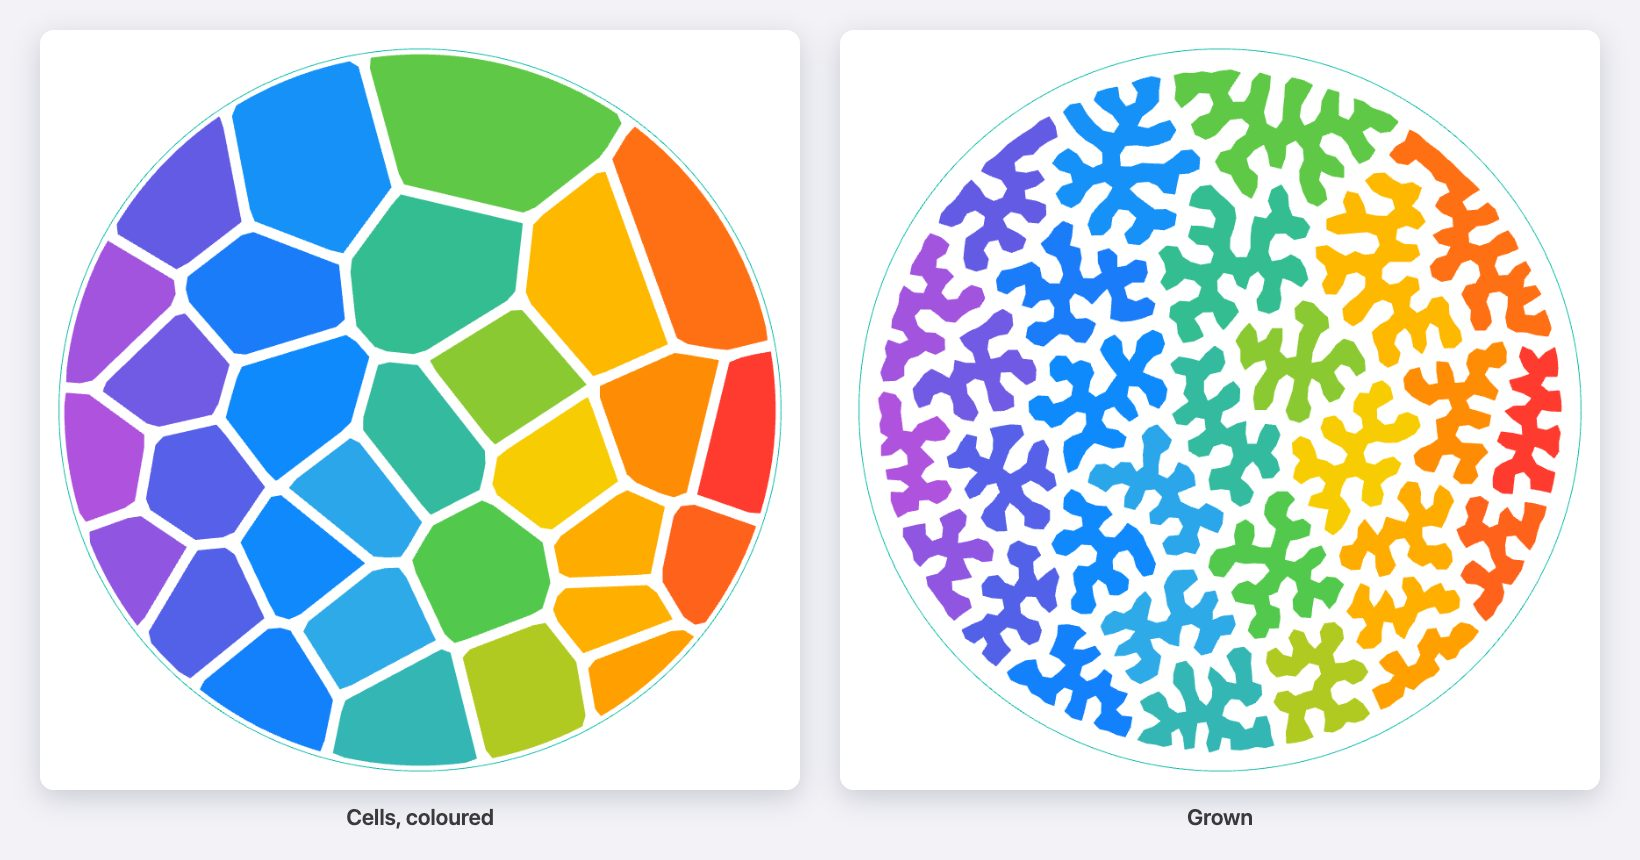
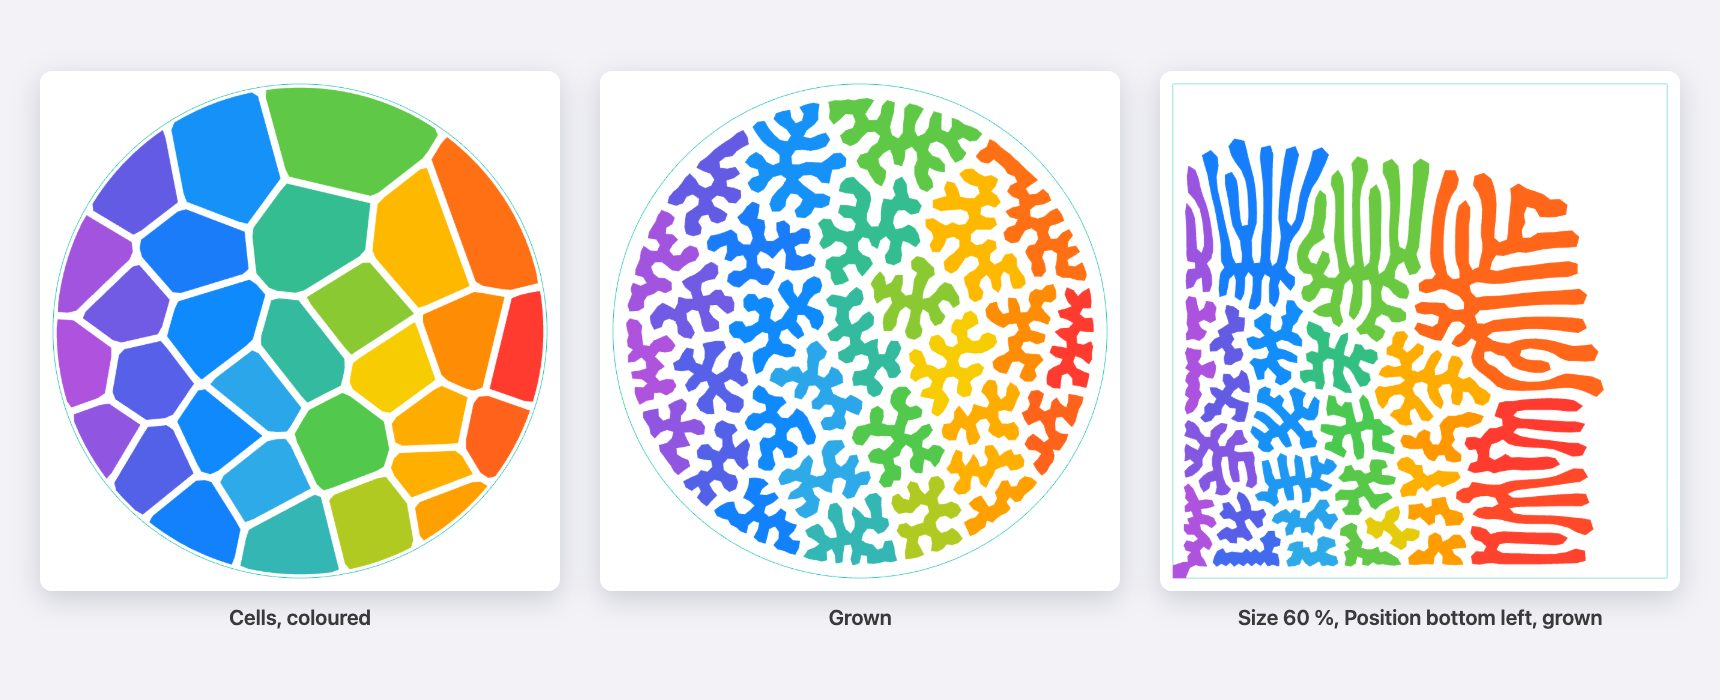
Release 1.4.0
Place cells against a side or corner, so they burst out the other way.

diff --git a/README.md b/README.md
@@ -8,7 +8,7 @@ Line Growth is a browser app for differential line growth: a line that keeps len
 
 [Watch the demo as a video](https://github.com/gil336699/line-growth/releases/download/v1.0.2/line-growth-demo.mp4) (MP4, 1920 × 1200, 25 seconds).
 
-![Coloured cells: 30 Voronoi cells fill a 200 mm disc in a rainbow from purple on the left to red on the right, and the same cells grown into branching pieces that pack the disc, each keeping its colour.](docs/cells.jpg)
+![Coloured cells: 30 Voronoi cells fill a 200 mm disc in a rainbow from purple on the left to red on the right; the same cells grown into branching pieces that pack the disc, each keeping its colour; and cells started in the bottom-left 60 % of a square, grown, packed against the left and bottom and bursting out at the top and right.](docs/cells.jpg)
 
 Everything runs in your browser. Files you open and the lines you grow stay on your computer.
 
@@ -74,7 +74,7 @@ Pictures have no lines to grow. When Illustrator can't write a shape's look as S
 | Circle | A circle in the roomiest part of the boundary, so a hole in the middle is avoided. |
 | Line | A straight line across the middle. |
 | Circles | Several circles scattered by the seed. |
-| Cells | Voronoi cells that fill the boundary, holes and all, each a closed line. Count sets how many, Gap how far apart neighbours start (a share of a cell's width). Size below 100 % fills a smaller copy of the outline round its middle, so cells can burst out of it, up to the boundary. The seed places them. |
+| Cells | Voronoi cells that fill the boundary, holes and all, each a closed line. Count sets how many, Gap how far apart neighbours start (a share of a cell's width). Size below 100 % fills a smaller copy of the outline, so cells can burst out of it, up to the boundary. Position puts that copy in the middle or against a side or corner, so they burst out only the other way: bottom left packs them against the left and bottom, bursting out at the top and right. The seed places them. |
 | Outline | A copy of each boundary ring set in from the edge, which grows inward and outward from the holes. |
 | Drawn | Lines you drew or imported. Drawing on any start turns it into Drawn lines. |
 
@@ -107,7 +107,7 @@ Every export holds what the view shows: the lines, plus the boundary and the nod
 | Preset, Units, Width, Height | Sheet size. Units are mm, in, pt or px; switching converts the numbers. Grown lines stretch with the sheet. |
 | Margin | Gap between the sheet edge and a Rectangle or Ellipse boundary. |
 | Start from, Size, Count | The start lines, their size as a share of the boundary, and the number of circles. |
-| Count, Size, Gap (Cells) | How many cells, how much of the boundary they fill (10–100 %), and how far apart neighbours start (0–50 % of a cell's width). |
+| Count, Size, Position, Gap (Cells) | How many cells, how much of the boundary they fill (10–100 %), where a smaller area sits (the middle, a side or a corner, picked on a grid of nine points), and how far apart neighbours start (0–50 % of a cell's width). |
 | Line width, colours | Line width and colour, and the sheet colour for the preview and PNG. |
 | Colours | One colour for every line, or Gradient: each line, its fill and its nodes take the gradient's colour at the middle of where the line started, so a line keeps its colour as it grows. The gradient runs from the line furthest back along the direction to the one furthest forward. |
 | Gradient, Direction | Rainbow, Sunset, Ocean, Viridis, or your two colours (From and To); Direction 0° runs left to right, 90° top to bottom. |
@@ -152,7 +152,7 @@ What's new in the engine:
 - **Randomness** nudges each new node sideways by up to randomness × a quarter of its edge, using a hash of the seed, step and node, so even shapes break into organic folds and every run is repeatable. The nudge is part of the node's first move, so it is checked for crossings too.
 - **Determinism.** The same lines, settings and step count always give the same result, bit for bit. A test checks that a run saved half way, reopened and continued ends exactly where an uninterrupted run does, and another checks the engine against a copy of the panel's step.
 
-**Cells.** The seed scatters a point for each cell inside the outline, two rounds of Lloyd's relaxation move each point to the middle of its cell, and each cell is the part of the outline nearer its own point than any other. [Clipper2](https://github.com/PolyClipping/Clipper2) clips each cell to the outline, as in Voronoi Studio, so the cells fill a circle, a rectangle or any imported shape to its edges. Each cell is set in by half the gap from its neighbours and from the outline. A cell the outline cuts in two becomes two lines, and a cell with a hole wholly inside it is first cut in two through the hole, since one line can't go round a hole and hold it out. Auto tune tunes the cells as one cell's line: tuned on all of them together, the panel's rules picked a 6.7 mm segment length for the default circle, so long that 30 cells grew from 361 nodes to 492 and stopped. Small cells are tuned finer, at least 7 segment lengths across, with more nodes to keep the look.
+**Cells.** The seed scatters a point for each cell inside the outline, two rounds of Lloyd's relaxation move each point to the middle of its cell, and each cell is the part of the outline nearer its own point than any other. [Clipper2](https://github.com/PolyClipping/Clipper2) clips each cell to the outline, as in Voronoi Studio, so the cells fill a circle, a rectangle or any imported shape to its edges. Each cell is set in by half the gap from its neighbours and from the outline. A smaller area is the outline's outer shape scaled down, trimmed to the outline so its holes stay out. Position slides it toward a corner until it meets the outline, then along each side, so it ends flush with both sides of a rectangle and touches a circle at the corner's angle. A cell the outline cuts in two becomes two lines, and a cell with a hole wholly inside it is first cut in two through the hole, since one line can't go round a hole and hold it out. Auto tune tunes the cells as one cell's line: tuned on all of them together, the panel's rules picked a 6.7 mm segment length for the default circle, so long that 30 cells grew from 361 nodes to 492 and stopped. Small cells are tuned finer, at least 7 segment lengths across, with more nodes to keep the look.
 
 **Limits of the method.** Some settings are unstable: a repel radius of more than about five segment lengths (for example after halving only the segment length) packs so many nodes within reach that their pushes overwhelm the step, and lines judder in place, held back from crossing. The status warns when that happens. Scale the segment length, repel radius and step size together, or turn on Auto tune. Lines that cross in an imported drawing keep growing, but the check can't uncross them, so they may stay crossed. Lines that touch at the start, such as Voronoi edges meeting at a corner, would be held still where they touch, so before growth begins a closed line that touches another is set in by a quarter of the segment length, and an open line's touching end is drawn back by as much. A drawing with many short lines, such as a Voronoi export, can be packed closer than Auto tune's lengths suit; the status says so, and a higher Max nodes makes the lines finer, with room to move. Nodes are only added, never removed, so a line can't shorten. The boundary and imported curves are short straight segments, within 0.02 mm of the drawn curve. Auto tune's own choice follows the panel's rules, made for a node cap of 2,600; a higher Max nodes gives larger or more detailed designs finer lines. Lines that fill a shape use roughly its area divided by the square of the segment length, so the fill can land a little under Max nodes: Gil's pill with a hole filled at 17,637 of 20,000.
 
@@ -175,7 +175,7 @@ The crossing check costs about 10 % in ordinary growth. When settings are out of
 - PNG export is limited to 16,384 px a side and 120 megapixels, which browsers can draw. Use SVG for larger work.
 - The live design is kept in the browser's local storage, every 5 seconds while lines grow and whenever the page is hidden or closed. Local storage holds about 5 MB. Designs above roughly 100,000 nodes may not fit, so save a project file to keep work.
 - Browsers slow a hidden tab's timers, even a worker's, to a few a second. Growth catches up by running longer batches, so it keeps going at about 90 steps per second at the default size in a background tab, but Pause can then take up to a quarter of a second.
-- The Cells start takes 15 ms for 30 cells in the default circle and 60 ms for 200, and 109 ms for 200 in a 4,096-point outline (Node). 30 cells in the default circle grow from 917 nodes to 2,160 in under a second, at 120 steps/s in the app.
+- The Cells start takes 15 ms for 30 cells in the default circle and 60 ms for 200, and 109 ms for 200 in a 4,096-point outline (Node); at Size 60 % and a corner Position, 42 ms for 30 and 116 ms for 200 there. 30 cells in the default circle grow from 917 nodes to 2,160 in under a second, at 120 steps/s in the app.
 - Colours follow the start lines. Cells are made the same way for the same settings, so a reopened project keeps its colours; a project whose grown lines don't match its start lines, made by hand or by a different version, gives the extra lines the gradient's middle colour.
 - Frame rate in the browser wasn't measured, as the preview pane wasn't on screen during the long runs.
 

diff --git a/CHANGELOG.md b/CHANGELOG.md
@@ -1,5 +1,10 @@
 # Line Growth Changelog
 
+## 1.4.0 2026-11-09
+
+- **Position for cells.** A grid of nine points under Size, like Illustrator's reference point, puts a smaller area of cells in the middle or against a side or corner of the boundary, so the cells burst out only the other way. Bottom left gives Gil's sketch: cells packed against the left and bottom, bursting out at the top and right. In a rectangle the area sits flush with both sides; in a circle it touches the edge at the corner's angle. At Size 100 % the cells fill the whole boundary, so Position is unavailable and says why. Before, a smaller area always sat in the middle, so cells burst out on every side.
+- **No made-up holes.** Below 100 %, the area for cells in an outline with a hole held a smaller copy of the hole where there was none, which the cells went round. It now keeps out only the outline's real holes.
+
 ## 1.3.0 2026-11-09
 
 - **Coloured Voronoi cells.** A new **Cells** start on the Shape tab fills the boundary with Voronoi cells, each a closed line that grows into a branching piece of its own, packed against its neighbours like jigsaw pieces. The cells fill a circle, a rectangle or an imported outline to its edges, holes included: Gil's JHU ICE page fills around its ticket-shaped window. **Count** sets how many (2–200), **Gap** how far apart neighbours start, and the seed places them. **Size** below 100 % fills a smaller copy of the outline, so the cells burst out of it as they grow. **Colour the cells** fills each one in its own colour from a rainbow, purple on the left to red on the right.
